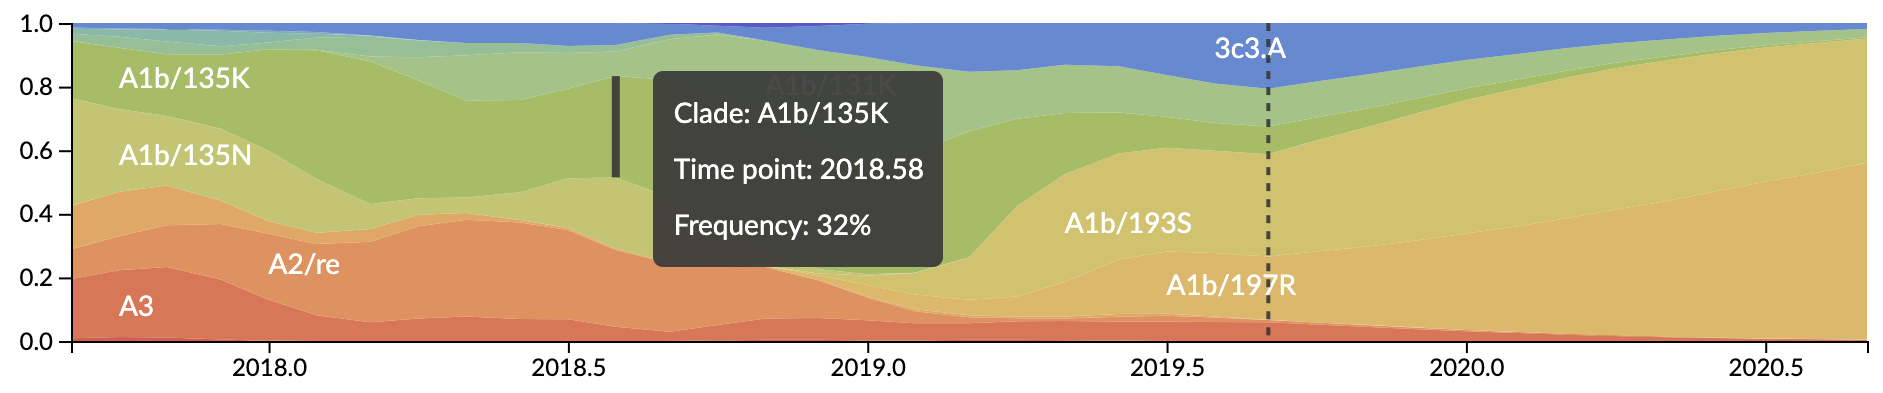
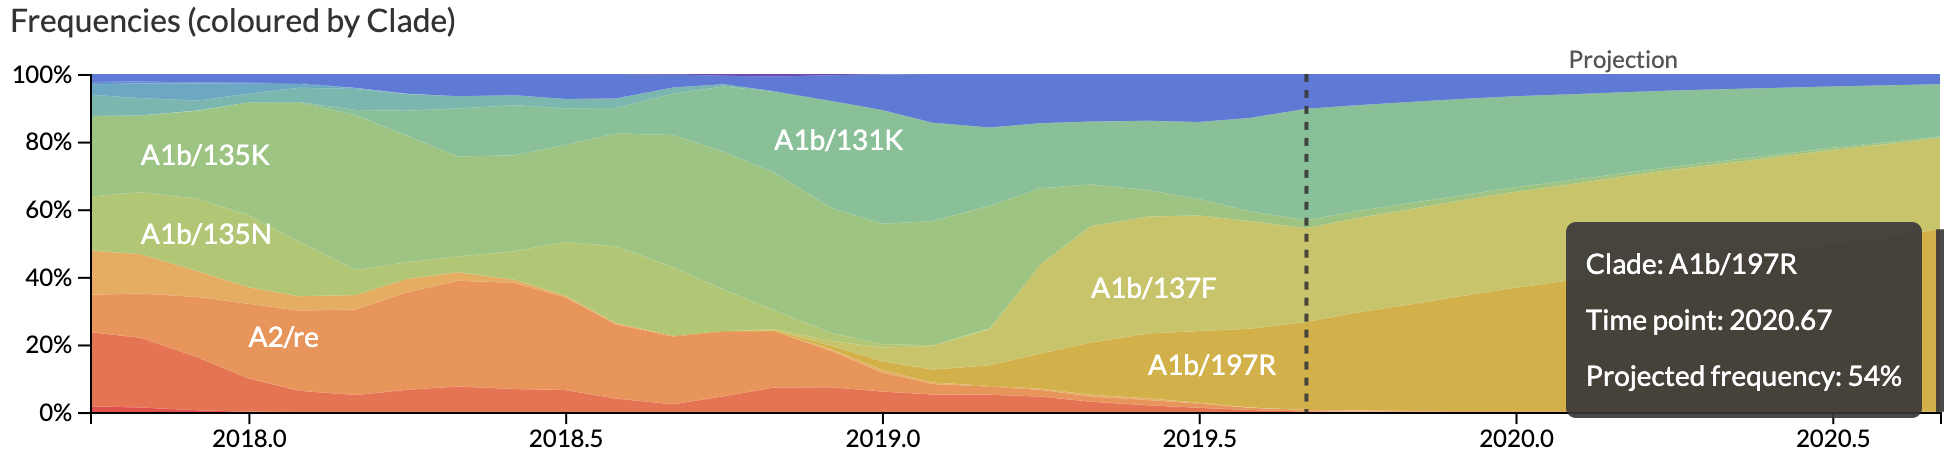
Expand methods and figures captions, update forecast example figure

diff --git a/manuscript/main.tex b/manuscript/main.tex
@@ -25,14 +25,17 @@ However, we also find that phylogenetic fitness metrics based on recent growth o
 
 \subsection*{A distance-based model of seasonal influenza evolution}
 
-\begin{figure*}[t]
+\begin{figure*}[ht]
   \begin{center}
   \includegraphics[width=\columnwidth]{figures/distance-based-fitness-model.png}
   \caption{
-    Schematic representation of the fitness model wherein the fitness of samples at timepoint $t$ is used to minimize the distance between projected samples from that timepoint and the observed population at timepoint $u$ one year in the future.
-    A) A phylogeny at timepoint $u=$April 2004 shows the observed population at that timepoint.
-    The vertical dashed line delineates the previous timepoint of $t=$April 2003 where the size and color of each sample indicates the projected frequency of those samples one year in the future based on the composite model of delta frequency, HI cross-immunity, and non-epitope mutations.
-    Bright yellow samples indicate those with the highest projected frequency and closest to the observed future population one year in the future.
+    Schematic representation of the fitness model for simulated A/H3N2-like populations wherein the fitness of samples at timepoint $t$ determines the estimated frequency of samples with similar sequences one year in the future at timepoint $u$.
+    Samples are colored by their amino acid sequence composition such that genetically similar samples have similar colors.
+    A) Samples at timepoint $t$ are shown in their phylogenetic context and sized by their frequency at that timepoint.
+    The estimated future population at timepoint $u$ is projected to the right with samples scaled in size by their projected frequency based on the true fitness model.
+    B) The frequency trajectories of samples at timepoint $t$ to $u$ represent the predicted the growth of the orange samples to the detriment of the purple samples.
+    C) Samples at timepoint $u$ are shown in the corresponding phylogeny for that timepoint and scaled by their frequency at that time.
+    D) The observed frequency trajectories of samples at timepoint $u$ broadly recapitulate the model's forecasts while also revealing increased diversity of sequences at the future timepoint that the model could not anticipate (e.g., the emergence of the yellow cluster from within the successful orange cluster).
   }
   \label{fig:model}
   \end{center}
@@ -64,7 +67,13 @@ The distances estimated under the naive model represent the average distance bet
 \begin{figure*}[ht]
   \begin{center}
   \includegraphics[width=\textwidth]{figures/unadjusted-model-accuracy-and-coefficients-for-simulated-populations.png}
-  \caption{Model a) coefficients and b) accuracy for simulated populations of A/H3N2-like viruses.}
+  \caption{
+    Model a) coefficients and b) accuracy for simulated populations of A/H3N2-like viruses.
+    Coefficients are shown for each individual fitness metric per validation timepoint (N=33) with the mean $\pm$ standard deviation in the top-left corner of each panel.
+    Distances to the future in amino acids are shown per validation timepoint for each individual model (black) in the context of the observed distance between timepoints from the naive model (grey).
+    Models outperform the naive model when the model's distance to the future is less than the naive model.
+    The mean $\pm$ standard deviation of amino acids per timepoint are shown in the top-left of each panel for both the model and the naive model.
+  }
   \label{fig:unadjusted_model_accuracy_and_coefficients_for_simulated_populations}
   \end{center}
 \end{figure*}
@@ -77,7 +86,7 @@ The distances estimated under the naive model represent the average distance bet
   \end{center}
 \end{table*}
 
-The average distance between yearly populations, as measured by the naive model, was 8.97 +/- 1.35 amino acids (Supplemental Fig.~\ref{sup_fig:distance_of_simulated_populations_between_timepoints}).
+The average distance between yearly populations, as measured by the naive model, was 8.97 $\pm$ 1.35 amino acids (Supplemental Fig.~\ref{sup_fig:distance_of_simulated_populations_between_timepoints}).
 As expected, the true fitness model outperformed all other models reducing the distance between populations by 2.17 amino acids on average and surpassing the naive model in 32 of 33 (97\%) timepoints (Table~\ref{table_simulated_model_selection} and Fig.~\ref{fig:unadjusted_model_accuracy_and_coefficients_for_simulated_populations}).
 With the exception of epitope cross-immunity, all biologically-informed models also outperformed the naive model.
 LBI was the best of these models, reducing the distance between populations by 1.41 amino acids on average.
@@ -102,16 +111,22 @@ These results confirm that our approach of minimizing the distance between yearl
 \subsection*{Model coefficients and performance reflect historical patterns of A/H3N2 evolution}
 
 Next, we trained and validated models for individual fitness predictors using 23 years of natural A/H3N2 populations spanning from October 1992 to October 2015.
-We held out samples collected between October 2015 and October 2019 for model testing.
+We held out samples collected between October 2015 and April 2019 for model testing.
 In addition to the sequence-only models we tested on simulated populations, we also fit models for our new fitness metrics based on experimental phenotypes including HI cross-immunity and DMS mutational effects.
 We hypothesized that both HI and DMS metrics would be assigned positive coefficients, as they estimate increased antigenic drift and beneficial mutations, respectively.
 As antigenic drift is generally considered to be the primary evolutionary pressure on natural A/H3N2 populations \cite{Smith:2004jc,Bedford:2014bf,Luksza:2014hj}, we expected that epitope and HI cross-immunity would be individually more predictive than non-epitope mutations or DMS mutational effects.
 Previous research \cite{Neher:2016hy} and our simulation results also led us to expect that LBI and delta frequency would outperform other individual mechanistic metrics.
 
-\begin{figure*}[t]
+\begin{figure*}[ht]
   \begin{center}
   \includegraphics[width=\textwidth]{figures/unadjusted-model-accuracy-and-coefficients-for-natural-populations.png}
-  \caption{Model a) coefficients and b) accuracy for natural populations of A/H3N2 viruses.}
+  \caption{
+    Model a) coefficients and b) accuracy for natural populations of A/H3N2 viruses.
+    As in Fig.~\ref{fig:unadjusted_model_accuracy_and_coefficients_for_simulated_populations}, coefficients are shown for each individual fitness metric per validation timepoint (N=19) with the mean $\pm$ standard deviation in the top-left corner of each panel.
+    Distances to the future in amino acids are shown per validation timepoint for each individual model (black) in the context of the observed distance between timepoints from the naive model (grey).
+    Models outperform the naive model when the model's distance to the future is less than the naive model.
+    The mean $\pm$ standard deviation of amino acids per timepoint are shown in the top-left of each panel for both the model and the naive model.
+  }
   \label{fig:unadjusted_model_accuracy_and_coefficients_for_natural_populations}
   \end{center}
 \end{figure*}
@@ -124,7 +139,7 @@ Previous research \cite{Neher:2016hy} and our simulation results also led us to 
   \end{center}
 \end{table*}
 
-The average distance per year between natural populations was 6.50 +/- 1.42 amino acids or 72\% of the distance between yearly simulated populations (Supplemental Fig.~\ref{sup_fig:distance_of_natural_populations_between_timepoints}).
+The average distance per year between natural populations was 6.50 $\pm$ 1.42 amino acids or 72\% of the distance between yearly simulated populations (Supplemental Fig.~\ref{sup_fig:distance_of_natural_populations_between_timepoints}).
 Biologically-informed metrics generally performed better than the naive model for natural populations with the exceptions of the epitope cross-immunity and DMS mutational effects (Fig.~\ref{fig:unadjusted_model_accuracy_and_coefficients_for_natural_populations}).
 Surprisingly, the best antigenic fitness metric of HI cross-immunity performed only slightly better the best functional constraint metric of non-epitope mutations.
 Indeed, epitope cross-immunity only outperformed the naive model at one of 19 timepoints (5\%), while HI cross-immunity outperformed the naive model at 15 (79\%) timepoints (Table~\ref{table_natural_model_selection}).
@@ -134,7 +149,7 @@ In contrast, HI cross-immunity maintained a positive coefficient across most tim
 The HI cross-immunity may benefit from being able to constantly update its antigenic model at each timepoint with recent experimental phenotypes, while the epitope cross-immunity metric is forced to give a constant weight to the same 49 sites throughout time.
 
 Non-epitope mutations also outperformed the DMS mutational effects, reducing the distance to the future by 0.40 amino acids on average compared to 0.19 amino acids, respectively.
-In contrast to the original {\L}uksza and L\"assig \cite{Luksza:2014hj} model, where the coefficient of the non-epitope mutations metric was fixed at -0.5, our model learned a consistently stronger coefficient of -1.45 +/- 0.24.
+In contrast to the original {\L}uksza and L\"assig \cite{Luksza:2014hj} model, where the coefficient of the non-epitope mutations metric was fixed at -0.5, our model learned a consistently stronger coefficient of -1.45 $\pm$ 0.24.
 Notably, DMS mutational effects only performed noticeably better than the naive model at the timepoint immediately preceding when the background strain of the DMS experiments, A/Perth/16/2009, was sampled.
 This result is consistent with the DMS model overfitting to the evolutionary history of the background strain used to perform the DMS experiments.
 Alternate implementations of less background-dependent DMS metrics never performed better than the non-epitope mutations metric (Supplemental Fig.~\ref{sup_fig:unadjusted_DMS_model_accuracy_and_coefficients_for_natural_populations}).
@@ -152,10 +167,13 @@ To test whether composite models could outperform individual fitness metrics for
 Specifically, we fit models based on HI cross-immunity and non-epitope mutations, LBI and non-epitope mutations, and all three of these metrics together.
 We anticipated that if these metrics all represented distinct, mutually beneficial components of viral fitness, these composite models should perform better than individual models with consistent coefficients for each metric.
 
-\begin{figure*}[t]
+\begin{figure*}[ht]
   \begin{center}
   \includegraphics[width=\textwidth]{figures/best-composite-unadjusted-model-accuracy-and-coefficients-for-natural-populations.png}
-  \caption{Composite model a) accuracy and b) coefficients for natural populations of A/H3N2 viruses.}
+  \caption{
+    Composite model a) accuracy and b) coefficients for natural populations of A/H3N2 viruses.
+    As in Fig.~\ref{fig:unadjusted_model_accuracy_and_coefficients_for_natural_populations}, coefficients are shown per timepoint for each individual fitness metric by the corresponding color of the metric.
+  }
   \label{fig:unadjusted_composite_model_accuracy_and_coefficients_for_natural_populations}
   \end{center}
 \end{figure*}
@@ -172,7 +190,8 @@ These results reinforce the historical importance of HI assays in measuring vira
 \subsection*{Models enable selection of vaccine candidate strains}
 
 As with the simulated populations, we validated the performance of the best model for natural populations using estimated and observed clade growth rates and the ranking of estimated best strains compared to the observed closest strains to future populations.
-We find that the composite model of LBI and non-epitope mutations accurately captures clade decline and modestly reflects observed clade growth (Fig.~\ref{fig:validation_of_best_model_for_natural_populations}A).
+We find that the composite model of LBI and non-epitope mutations capture clade decline with 94\% accuracy and modestly reflects observed clade growth with 66\% accuracy (Fig.~\ref{fig:validation_of_best_model_for_natural_populations}A).
+
 
 \begin{figure*}[ht]
   \begin{center}
@@ -190,17 +209,31 @@ We find that the composite model of LBI and non-epitope mutations accurately cap
 
 See Fig.~\ref{fig:nextstrain_forecasts}.
 
-\begin{figure*}[t]
+\begin{figure*}[ht]
   \begin{center}
   \includegraphics[width=\textwidth]{figures/nextstrain-forecasts-for-september-2020.png}
-  \caption{Forecasts on nextstrain.org from our best model for September 2020.}
+  \caption{
+    Snapshot of live forecasts on nextstrain.org from our best model for September 2020.
+    The observed frequency trajectories for currently circulating clades are shown up to September 2019.
+    Our model favors the A1b/131K subclade, A1b/197R, to grow over the next year and estimates that the A1b/135K subclade, A1b/137F, will remain stable.
+  }
   \label{fig:nextstrain_forecasts}
   \end{center}
 \end{figure*}
 
 \section*{Discussion}
 
-Discussion.
+\begin{itemize}
+\item{Our model accurate forecasts evolution of simulated and natural populations by estimating the sequence composition of future populations and without relying on clade-based model targets}
+\item{The combination of sequence-only metrics outperforms all experimentally-informed metrics}
+\item{Deleterious mutations contribute more to seasonal influenza evolution than has been as widely appreciated}
+\item{Epitope mutations are an inadequate predictor of viral success compared to other antigenic or phylogenetic metrics}
+\item{Further efforts to understand the declining efficacy of HI assays and to replace these with FRA or antigenic escape assays could improve models in the future}
+\item{Our model live forecasts in nextstrain.org will aid in year-round surveillance of influenza evolutionary patterns and allow us to continuously evaluate model performance relative to recent observations}
+\item{Our model is the first of its kind to be released as an open source framework that can be inspected and extended by others}
+\item{Immediate next steps to improve influenza models under this framework include the integration of geographic information and antigenic escape assay data}
+\item{Our distance-based model targets and easy definition of fitness metrics through tidy data frames paves the way for future forecasting efforts with pathogens that cannot be analyzed by standard phylogenetic methods (e.g., highly recombinant viruses and organisms with larger genomes like bacteria and fungi)}
+\end{itemize}
 
 \section*{Methods}
 
@@ -212,15 +245,30 @@ Each simulated population was seeded with the full length HA from A/Beijing/32/1
 We defined purifying selection across all three domains, allowing the preferred amino acid at each site to change at a fixed rate over time.
 We additionally defined exposure-dependent selection for 49 putative epitope sites in HA1 \cite{Luksza:2014hj} to impose an effect of cross-immunity that would allow mutations at those sites to increase viral fitness despite underlying purifying selection.
 We modified the SANTA-SIM source code to enable the inclusion of true fitness values for each sample in the FASTA header of the sampled sequences from each generation.
-This modified implementation is available at https://github.com/huddlej/santa-sim/tree/emit-fitness.
+This modified implementation is available at \url{https://github.com/huddlej/santa-sim/tree/emit-fitness}.
+For our full analysis of model performance, we sampled 90 viruses per month to match the sampling density of natural populations.
+For tuning of hyperparameters, we sampled 10 viruses per month to enable rapid exploration of hyperparameter space.
+
+\subsection*{Hyperparameter tuning with simulated populations}
+
+To avoid overfitting our models to the relatively limited data from natural populations, we used simulated A/H3N2-like populations to tune hyperparameters including the KDE bandwidth for frequency estimates and the L1 penalty for model coefficients.
+We simulated populations, as described above, and fit models for each parameter value using the true fitness of samples from the simulator.
+
+We identified the optimal KDE bandwidth for frequencies as the value that minimized the difference between the mean distances to the future from the true fitness model and the naive model.
+We set the L1 lambda penalty to zero, to reduce variables in the analysis and avoid interactions between the coefficients and the KDE bandwidths.
+Higher bandwidths completely wash out dynamics of populations by making all samples appear to exist for long time periods.
+This flattening of frequency trajectories means that as bandwidths increase, the naive model gets more accurate and less informative.
+Given this behavior, we found the bandwidth that produced the minimum difference between distances to the future for the true fitness and naive models instead of the bandwidth that produced the minimum mean model distance.
+Based on this analysis, we identified an optimal bandwidth of $\frac{2}{12}$ or the equivalent of 2-months for floating point dates.
+Next, we identified an L1 penalty of 0.1 for model coefficients that minimized the mean distance to the future for the true fitness model.
 
 \subsection*{Strain selection for natural populations}
 
-For model training and validation, we selected XX HA sequences of length >=1,700 nucleotides that were sampled between October 1994 and October 2015.
-To account for known variation in sequence availability by region, we subsampled the selected sequences to a representative set of 10 viruses per month with even sampling across 10 global regions including Africa, Europe, North America, China, South Asia, Japan and Korea, Oceania, South America, Southeast Asia, and West Asia.
-We excluded all samples with ambiguous year, month, and day annotations and prioritized samples with more available HI titer measurements.
-
-For model testing, we extended the set of training and validation sequences to include HA sequences that were sampled between October 2015 and April 2019.
+For model training and validation, we selected 13,568 HA sequences $\geq$900 nucleotides that were sampled between October 1, 1992 and October 1, 2015.
+To account for known variation in sequence availability by region, we subsampled the selected sequences to a representative set of 90 viruses per month with even sampling across 10 global regions including Africa, Europe, North America, China, South Asia, Japan and Korea, Oceania, South America, Southeast Asia, and West Asia.
+We excluded all egg-passaged samples and all samples with ambiguous year, month, and day annotations.
+We prioritized samples with more available HI titer measurements.
+For model testing, we selected an additional XX HA sequences that were sampled between October 1, 2015 and April 1, 2019.
 We used these test sequences to evaluate the out-of-sample error of fixed model parameters learned during training and validation.
 
 \subsection*{Phylogenetic interference}
@@ -233,15 +281,17 @@ To reconstruct time-resolved phylogenies, we applied TreeTime v0.5.6 \cite{Sagul
 \subsection*{Frequency estimation}
 
 To account for uncertainty in collection date and sampling error, we applied a kernel density estimation (KDE) approach to calculate global sample frequencies.
-Specifically, we constructed a Gaussian kernel for each sample with the mean at the reported collection date and a variance of one month, roughly corresponding to the average lag time between sample collection and submission to the GISAID database.
-We estimated the frequency of each sample at each timepoint by calculating the cumulative density function of each KDE between the current and previous timepoint and normalizing the resulting values to sum to one.
-We implemented this logic in the augur frequencies command.
+Specifically, we constructed a Gaussian kernel for each sample with the mean at the reported collection date and a variance (or KDE bandwidth) of two months.
+The bandwidth was identified by cross-validation, as described above.
+This bandwidth also roughly corresponds to the median lag time between sample collection and submission to the GISAID database.
+We estimated the frequency of each sample at each timepoint by calculating the probabilitiy density function of each KDE at that timepoint and normalizing the resulting values to sum to one.
+We implemented this frequency estimation logic in the augur frequencies command.
 
 \subsection*{Model fitting and evaluation}
 
 \subsubsection*{Fitness model}
 
-As in \cite{Luksza:2014hj}, we assumed that influenza A/H3N2 populations can be described by an exponential growth model.
+We assumed that the evolution seasonal influenza A/H3N2 populations can be represented by an exponential growth model, as previously described \cite{Luksza:2014hj}.
 Under this model, we estimated the future frequency of the global population, $\mathbf{\hat{x}}$, at some time in the future, $t + \Delta{t}$, based on the current frequency, $x_{i}(t)$, and fitness, $f_{i}(t)$, of each sample $i$ as follows where the resulting future frequencies were normalized to one by $\frac{1}{Z(t)}$.
 
 $$
@@ -257,22 +307,25 @@ $$
 
 \subsubsection*{Model target}
 
-For a model based on any given combination of fitness metrics, we found the fitness coefficients that minimized the mean weighted Hamming distance between the estimated and observed future populations at time $u = t + \Delta{t}$ as defined by,
+For a model based on any given combination of fitness metrics, we found the fitness coefficients that minimized the weighted Hamming distance between amino acid sequences from the observed future population at time $u = t + \Delta{t}$ and the estimated future population created by projecting frequencies of samples at time $t$ by their estimated fitnesses.
+We measured distance between populations using Earth Mover's Distance (EMD), a metric commonly applied in machine learning to compare collections of pixels or words \cite{Rubner1998,Kusner2015}.
+Solving for EMD identifies the minimum about of ``earth'' that must be moved from a source population to a sink population to make those populations as similar as possible.
+This solution requires both a ``ground distance'' between pairs fo samples from both populations and weights assigned to each sample that determine how much that sample contributes to the overall distance.
 
-$$
-\Delta\mathbf{d} = \frac{\mathbf{d}(\hat{u}, u) - \mathbf{d}(u, u)}{\mathbf{d}(t, u)}
-                                           = \frac{\sum_{i}\sum_{j}x_{i}(t)\exp(f_{i}(t)\Delta{t})x_{j}(u)d_{i,j} - \sum_{j}\sum_{k}x_{j}(u)x_{k}(u)d_{j,k}}{\sum_{i}\sum_{j}x_{i}(t)x_{j}(u)d_{i,j}}.
-$$
-
-The first term in the numerator measures the mean distance between estimated and observed future populations, the second term measures the average distance of the future population to itself, and the denominator measures the average distance between the current and future populations.
-When a model accurately estimates the average distance of the future population to itself, the metric evaluates to zero.
-When the estimated sequence diversity is closer to the center of the future population's observed diversity, the metric evaluates to a negative proportion.
+For each timepoint $t$ and corresponding timepoint $u = t + 1$, we defined the ground distance as the Hamming distance between HA amino acid sequences for all pairs of samples between timepoints.
+For samples with less than full length nucleotide sequences, we inferred missing nucleotides through TreeTime's ancestral sequence reconstruction analysis.
+We defined weights for samples at timepoint $t$ based on their projected future frequencies.
+We defined weights for samples at timepoint $u$ based on their observed frequencies.
+We then identified the fitness coefficients that provided projected future frequencies that minimized the EMD between the estimated and observed future populations.
+With this metric, an optimal estimate of the future would produce a distance of zero.
+However, the inevitable accumulation of substitutions between the two populations prevents this outcome.
+We calculated EMD with the Python bindings for the OpenCV 3.4.1 implementation \cite{opencv_library}.
 We applied the Nelder-Mead minimization algorithm as implemented in SciPy \cite{SciPy} to learn fitness coefficients that minimize the average of this distance metric over all timepoints in a given training window.
 
 \subsubsection*{Time-series cross-validation}
 
 To obtain unbiased estimates for the out-of-sample errors of our models, we adopted the standard cross-validation strategy of training, validation, and testing.
-We divided our available data into an initial training and validation set spanning October 1994 to October 2015 and an additional testing set spanning October 2015 to April 2019.
+We divided our available data into an initial training and validation set spanning October 1992 to October 2015 and an additional testing set spanning October 2015 to April 2019.
 We partitioned our training and validation data into six month seasons corresponding to winter in the Northern Hemisphere (October--April) and the Southern Hemisphere (April--October) and trained models to estimate frequencies of populations one year into the future from each season in six-year sliding windows.
 To calculate validation error for each training window, we applied the resulting model coefficients to estimate the future frequencies for the year after the last timepoint in the training window.
 These validation errors informed our tuning of hyperparameters including a L1 regularization of the fitness coefficients, the LBI neighborhood parameter $\tau$, and the length of the training window itself.
